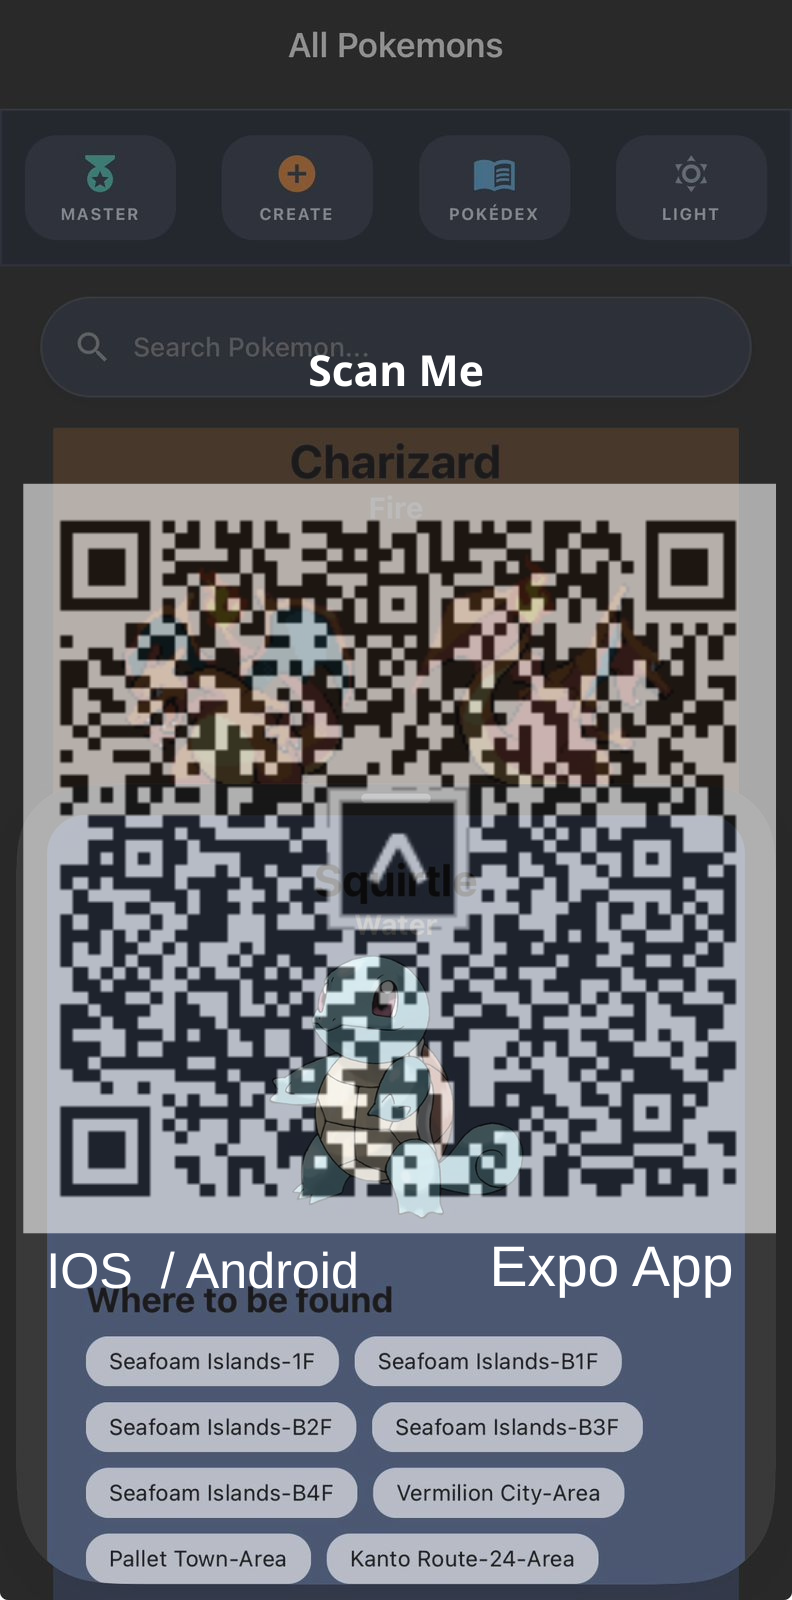
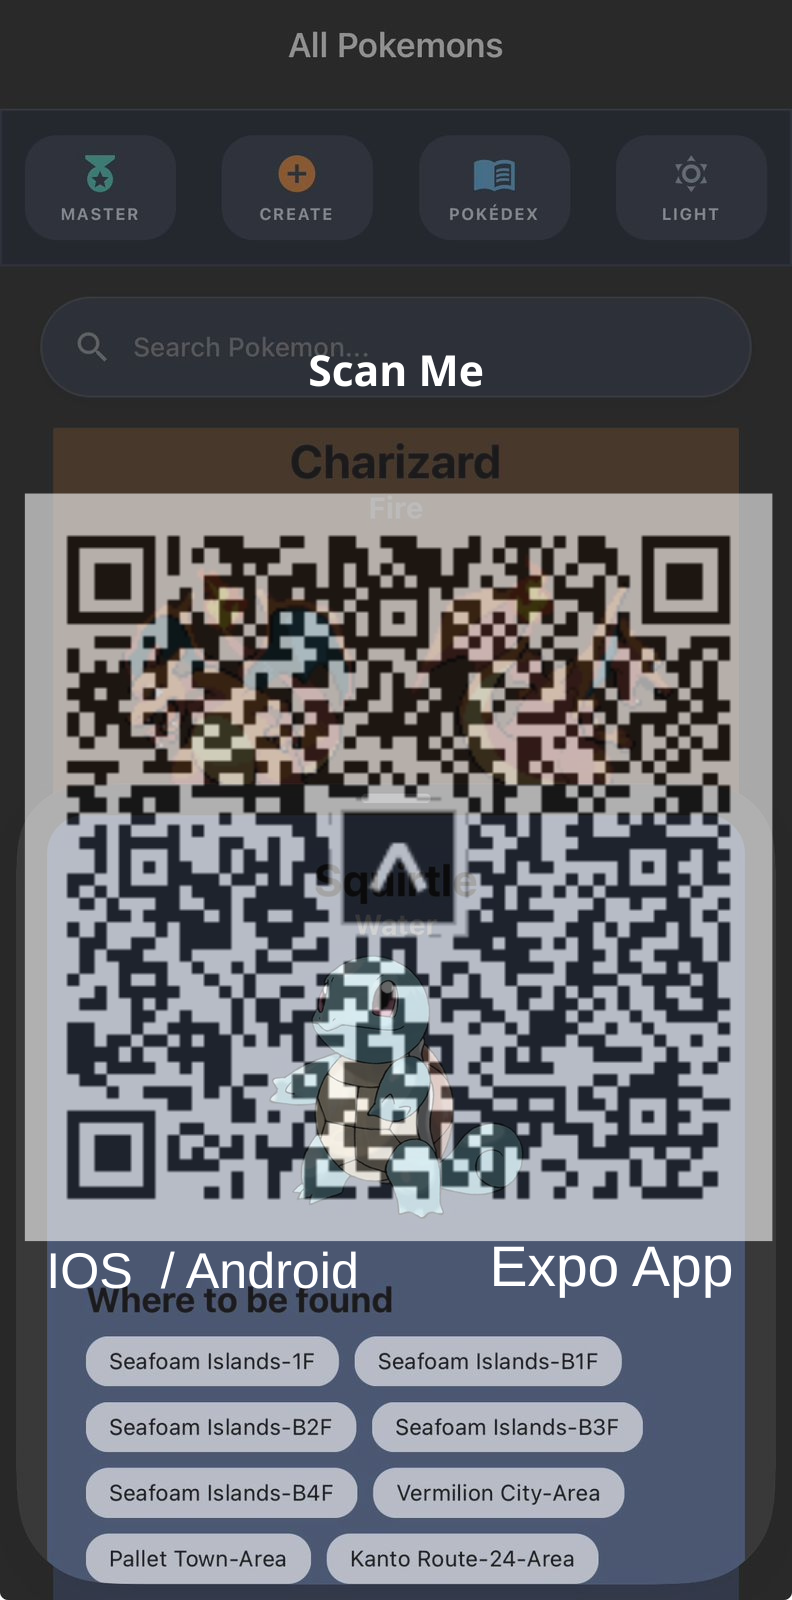
pokedex update

Changed region(s): [[0.0303, 0.2812, 1.0, 0.7812]]

diff --git a/src/OOPData/Projects-data.jsx b/src/OOPData/Projects-data.jsx
@@ -16,6 +16,7 @@ export const PROJECTS = [
         image2: "/images/ExpoPokemon.png",
         imageAlt: "Project 2",
         demoLink: "https://pokedex-3a7c.onrender.com",
+        demoLink2: "https://expo.dev/preview/update?message=aesthetics3&updateRuntimeVersion=1.0.0&createdAt=2026-03-27T20%3A54%3A57.170Z&slug=exp&projectId=72614e03-8e89-4a77-a315-3e91806a3511&group=594db386-342f-4343-ae1e-134e5e9c7589",
         description: "Click the Expo Demo button to access a QR code. Scan it with your phone to run the app natively using Expo Go so you dont miss out on the full experience!\n\nPokédex – A React Native app built with Expo that lets you browse Pokémon via an API in a fun, interactive way. View each Pokémon’s name, type, front/back sprites, and moves. Features type-based colors, smooth scrolling, dynamic routing for detailed Pokémon pages, and support for both dark and light modes. The app also includes a search function to find Pokémon by name or ID, and an AI-powered image generator that allows users to create custom Pokémon. Additionally, users can save their generated Pokémon into a personal Pokédex, where all previously created entries are stored locally using SQLite (or AsyncStorage for the web version).",
         buttons: [
             {
@@ -264,7 +265,7 @@ export const PROJECTS_SECTION = {
 export const ProjectCard = ({ project, isImageSet, setIsImageSet, showDescription, closingDescription, onToggleDescription }) => (
     <div className="details-container color-container">
         <div className="article-container">
-            <a href={project.demoLink} target="_blank" rel="noopener noreferrer">
+            <a href={isImageSet && project.demoLink2 ? project.demoLink2 : project.demoLink} target="_blank" rel="noopener noreferrer">
                 <img src={isImageSet ? project.image2 ? project.image2 : project.image : project.image} alt={project.imageAlt} className="project-img" />
             </a>
         </div>
